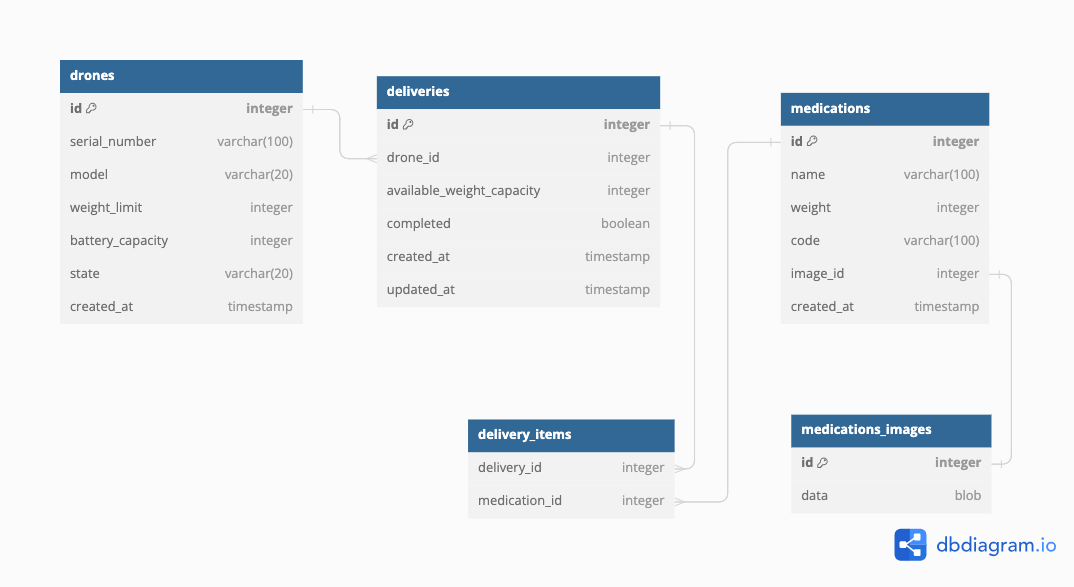
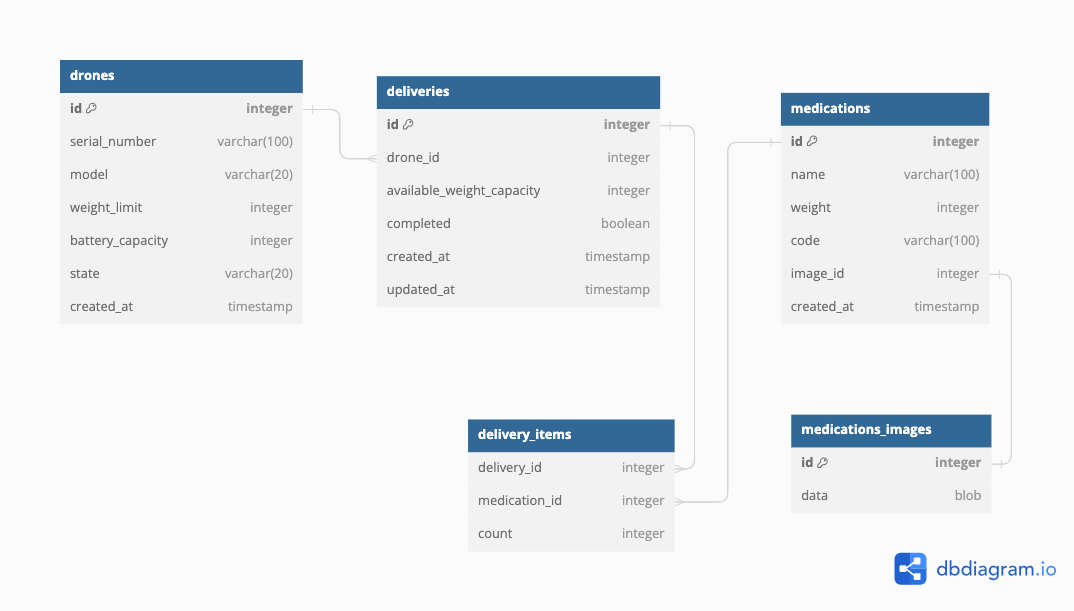
Changed database schema. Added column count to delivery_items table

diff --git a/src/main/java/com/github/chMatvey/dronedelivery/model/Delivery.java b/src/main/java/com/github/chMatvey/dronedelivery/model/Delivery.java
@@ -5,13 +5,16 @@ import lombok.AllArgsConstructor;
 import lombok.Builder;
 import lombok.Data;
 import lombok.NoArgsConstructor;
+import lombok.experimental.Accessors;
 import lombok.experimental.FieldDefaults;
 import org.hibernate.annotations.CreationTimestamp;
 import org.hibernate.annotations.UpdateTimestamp;
 
 import java.time.LocalDateTime;
 import java.util.List;
+import java.util.Map;
 
+import static jakarta.persistence.CascadeType.ALL;
 import static jakarta.persistence.FetchType.LAZY;
 import static jakarta.persistence.GenerationType.SEQUENCE;
 import static lombok.AccessLevel.PRIVATE;
@@ -19,6 +22,7 @@ import static lombok.AccessLevel.PRIVATE;
 @Data
 @Builder
 @FieldDefaults(level = PRIVATE)
+@Accessors(chain = true)
 @NoArgsConstructor
 @AllArgsConstructor
 @Entity
@@ -39,12 +43,8 @@ public class Delivery {
     @JoinColumn(name = "drone_id", referencedColumnName = "id")
     Drone drone;
 
-    @ManyToMany(fetch = LAZY)
-    @JoinTable(
-            name = "delivery_items",
-            joinColumns = @JoinColumn(name = "delivery_id"),
-            inverseJoinColumns = @JoinColumn(name = "medication_id"))
-    List<Medication> medications;
+    @OneToMany(fetch = LAZY, mappedBy = "delivery", cascade = ALL)
+    List<DeliveryItem> deliveryItems;
 
     @CreationTimestamp
     @Column(name = "created_at", updatable = false)
@@ -53,4 +53,18 @@ public class Delivery {
     @UpdateTimestamp
     @Column(name = "updated_at")
     LocalDateTime updatedAt;
+
+    public List<Medication> getMedications() {
+        return deliveryItems.stream()
+                .flatMap(DeliveryItem::toMedicationsStream)
+                .toList();
+    }
+
+    public DeliveryItem createDeliveryItem(Map.Entry<Medication, Long> medicationPerCount) {
+        return DeliveryItem.builder()
+                .delivery(this)
+                .medication(medicationPerCount.getKey())
+                .count(medicationPerCount.getValue().intValue())
+                .build();
+    }
 }

diff --git a/src/main/java/com/github/chMatvey/dronedelivery/service/impl/DeliveryServiceImpl.java b/src/main/java/com/github/chMatvey/dronedelivery/service/impl/DeliveryServiceImpl.java
@@ -1,6 +1,7 @@
 package com.github.chMatvey.dronedelivery.service.impl;
 
 import com.github.chMatvey.dronedelivery.model.Delivery;
+import com.github.chMatvey.dronedelivery.model.DeliveryItem;
 import com.github.chMatvey.dronedelivery.model.Drone;
 import com.github.chMatvey.dronedelivery.model.Medication;
 import com.github.chMatvey.dronedelivery.repository.DeliveryRepository;
@@ -13,8 +14,11 @@ import org.springframework.stereotype.Service;
 
 import java.util.List;
 import java.util.Optional;
+import java.util.stream.Collectors;
 
 import static com.github.chMatvey.dronedelivery.model.DroneState.LOADING;
+import static java.util.function.Function.identity;
+import static java.util.stream.Collectors.counting;
 
 @Service
 @RequiredArgsConstructor
@@ -31,10 +35,16 @@ public class DeliveryServiceImpl implements DeliveryService {
                 .availableWeightCapacity(deliveryCreation.availableWeightCapacity())
                 .completed(false)
                 .drone(drone)
-                .medications(deliveryCreation.medications())
                 .build();
 
-        return deliveryRepository.save(delivery);
+        List<DeliveryItem> deliveryItems = deliveryCreation.medications().stream()
+                .collect(Collectors.groupingBy(identity(), counting()))
+                .entrySet()
+                .stream()
+                .map(delivery::createDeliveryItem)
+                .toList();
+
+        return deliveryRepository.save(delivery.setDeliveryItems(deliveryItems));
     }
 
     @Override

diff --git a/src/main/java/com/github/chMatvey/dronedelivery/model/DeliveryItem.java b/src/main/java/com/github/chMatvey/dronedelivery/model/DeliveryItem.java
@@ -1,0 +1,40 @@
+package com.github.chMatvey.dronedelivery.model;
+
+import jakarta.persistence.*;
+import lombok.AllArgsConstructor;
+import lombok.Builder;
+import lombok.Data;
+import lombok.NoArgsConstructor;
+import lombok.experimental.FieldDefaults;
+
+import java.util.stream.Stream;
+
+import static lombok.AccessLevel.PRIVATE;
+
+@Data
+@Builder
+@FieldDefaults(level = PRIVATE)
+@NoArgsConstructor
+@AllArgsConstructor
+@Entity
+@Table(name = "delivery_items")
+public class DeliveryItem {
+    @Builder.Default
+    @EmbeddedId
+    DeliveryItemId id = new DeliveryItemId();
+
+    @ManyToOne
+    @MapsId("deliveryId")
+    Delivery delivery;
+
+    @ManyToOne
+    @MapsId("medicationId")
+    Medication medication;
+
+    int count;
+
+    public Stream<Medication> toMedicationsStream() {
+        return Stream.generate(() -> medication)
+                .limit(count);
+    }
+}

diff --git a/src/main/java/com/github/chMatvey/dronedelivery/model/DeliveryItemId.java b/src/main/java/com/github/chMatvey/dronedelivery/model/DeliveryItemId.java
@@ -1,0 +1,25 @@
+package com.github.chMatvey.dronedelivery.model;
+
+import jakarta.persistence.Column;
+import jakarta.persistence.Embeddable;
+import lombok.AllArgsConstructor;
+import lombok.Data;
+import lombok.NoArgsConstructor;
+import lombok.experimental.FieldDefaults;
+
+import java.io.Serializable;
+
+import static lombok.AccessLevel.PRIVATE;
+
+@Data
+@FieldDefaults(level = PRIVATE)
+@NoArgsConstructor
+@AllArgsConstructor
+@Embeddable
+public class DeliveryItemId implements Serializable {
+    @Column(name = "delivery_id")
+    int deliveryId;
+
+    @Column(name = "medication_id")
+    int medicationId;
+}

diff --git a/src/main/java/com/github/chMatvey/dronedelivery/repository/DeliveryRepository.java b/src/main/java/com/github/chMatvey/dronedelivery/repository/DeliveryRepository.java
@@ -10,6 +10,6 @@ import java.util.Optional;
 public interface DeliveryRepository extends JpaRepository<Delivery, Integer> {
     Optional<Delivery> findOneByDroneAndCompletedFalse(Drone drone);
 
-    @Query("select delivery from Delivery delivery join fetch delivery.medications where delivery.completed = false and delivery.drone = ?1")
+    @Query("select delivery from Delivery delivery join fetch delivery.deliveryItems where delivery.completed = false and delivery.drone = ?1")
     Optional<Delivery> findOneByDroneAndCompletedFalseJoinMedications(Drone drone);
 }
